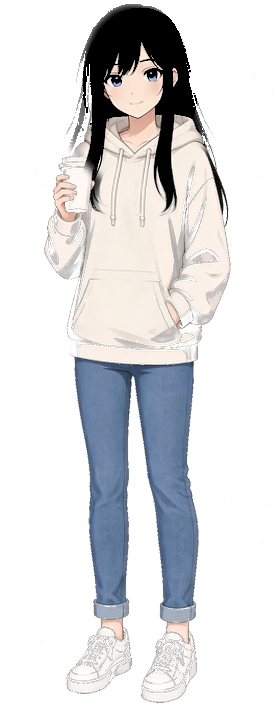
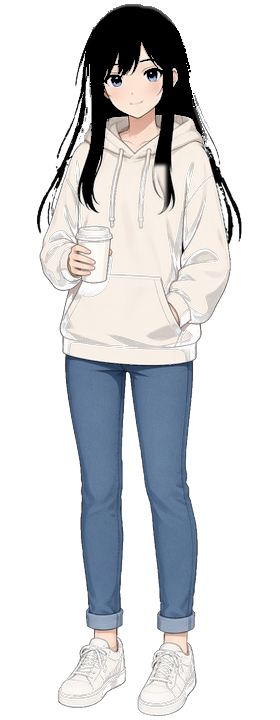
v1.4.44 Face holds: right arm actually out
Regenerate Face beer/coffee/cigarette so the right forearm is
outside the pocket with a real grip. Head-lock idle A only —
do not paste idle pocket hands. HOLD_POSE_V hold10.

diff --git a/src/ui/app.ts b/src/ui/app.ts
@@ -287,7 +287,7 @@ function playerAvatarSrc(): string {
   return getAFace() === "camera" ? "avatars/player-face.png?v=face7" : "avatars/player.png?v=a1";
 }
 
-const HOLD_POSE_V = "hold9";
+const HOLD_POSE_V = "hold10";
 
 function playerFullSrc(prop?: ShopPropId | null): string {
   const face = getAFace() === "camera";

diff --git a/public/sw.js b/public/sw.js
@@ -1,5 +1,5 @@
 /* AA Mahjong asset cache — Cache API, not localStorage */
-const CACHE = "aa-mahjong-assets-1.4.43";
+const CACHE = "aa-mahjong-assets-1.4.44";
 const PRECACHE = [
   "avatars/left.png",
   "avatars/opposite.png",

diff --git a/src/main.ts b/src/main.ts
@@ -15,7 +15,7 @@ function registerAssetCache(): void {
 }
 
 function warmImages(): void {
-  const hold = "hold9";
+  const hold = "hold10";
   const urls = [
     "avatars/player.png?v=a1",
     "avatars/player-face.png?v=face7",

diff --git a/src/version.ts b/src/version.ts
@@ -1,2 +1,2 @@
 /** Single app version — keep in sync with package.json, VERSION, public/sw.js CACHE. */
-export const APP_VERSION = "1.4.43";
+export const APP_VERSION = "1.4.44";
